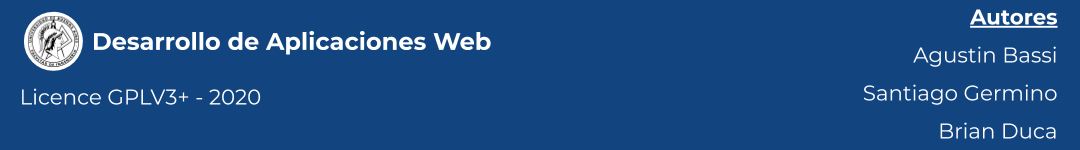
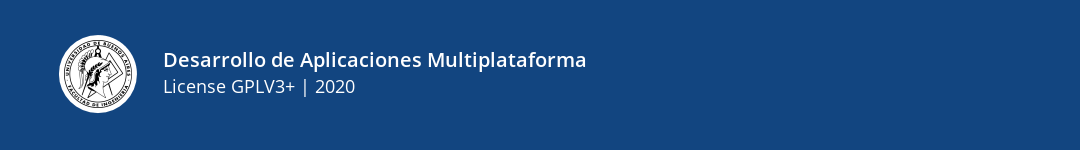
Se completa la primera versión del Readme.

diff --git a/README.md b/README.md
@@ -1,20 +1,161 @@
 ![header](doc/header.png)
 
-# DAW Project Template
+# Trabajo Práctico Final
 
-Authors:
+Autor:
 
-* Agustin Bassi
+* Agustín Curcio Berardi
+
+Docente:
+
 * Brian Ducca
-* Santiago Germino
 
-Template project for Web Applications Development.
+## Índice de contenidos
 
-To read all project documentation, please go to its wiki in [this link](https://github.com/ce-iot/daw-project-template/wiki).
+1. [Introducción general](#introducción)
+2. [Instalación de dependencias](#instalación-de-dependencias)
+3. [Implementación](#implementación)
+4. [Ejecución de la aplicación](#ejecución-de-la-aplicación)
+5. [Licencia](#licencia)
 
-## Licence
+## Introducción general
 
-This project is published under GPLV3+ licence.
+El **Trabajo Práctico Final** de la materia **Desarrollo de Aplicaciones Multiplataforma** consiste en el desarrollo de una aplicación para controlar un sistema de riego automatizado. La propuesta consistió en aplicar los conceptos vistos en la materia para implementar una aplicación utilizando **Angular** para diseñar una página web y mediante el framework **Ionic** transformarla en una aplicación híbrida para dispositivos móviles.
+
+## Instalación de dependencias
+
+Para poder ejecutar el "backend" de la aplicación se debe tener instalado Docker, ya que toda esa parte del proyecto se encuentra concentrada en un contenedor. En caso de no contar con Docker instalado, se recomienda seguir la sección "Instalación de dependencias" espeficiada en el [siguiente repositorio](https://github.com/acurber91/daw-project), ya que se reutilizó el mismo contenedor empleado en la materia Desarrollo de Aplicaciones Web.
+
+Por otro lado, para ejecutar la aplicación del "frontend" se requiere tener instalado el framework Ionic. Se diferencian dos situaciones.
+
+### Node.js instalado con anterioridad
+
+Si su computadora cuenta con Node.js instalado, seguramente cuente con el instalador **npm** que viene incluído por defecto, por lo que basta con ejecutar el siguiente comando para instalar el framework completo:
+
+    $ npm install -g @ionic/cli
+
+Para más información sobre cómo instalar Ionic con Node.JS, dirigirse a la [documentación oficial](https://ionicframework.com/docs/intro/cli).
+
+### Node.js no instalado con anterioridad
+
+En este caso será necesario instalar primero Node.js seguiendo la [página de descargas oficial](https://nodejs.org/en/). Una vez finalizada la instalación, se podrán seguir los pasos de la sección anterior para instalar Ionic.
+
+## Implementación
+
+### Introducción específica
+
+La aplicación se ejecuta cuando un móvil se comunica con el servidor web mediante el envío de solicitudes HTTP. Dicho servidor utiliza la tecnología Node.js para que, una vez establecida la conexión, se intercambien datos y que la aplicación pueda mostrar la información de los dispositivos almacenados en la base de datos.
+
+Para el diseño del **"frontend"** se utilizó framework **Ionic**, que es un SDK completo de código abierto para el desarrollo de aplicaciones móviles híbridas. En este caso, el desarrollo se realizó sobre **Angular**, otro "framework" utilizado para desarrollar aplicaciones web en TypeScript, de código abierto y mantenido por Google.
+
+En cuanto al diseño del sitio, Ionic ya incorpora los principios de diseño de **Material Design** en caso de que aplicaciones para **Android** y **Apple Design** en caso **iOS**.
+
+Por otro lado, en cuanto al desarrollo del **"backend"** se utilizó **Express.js**, que tal cual su nombre lo indica es un "framework" de Node.js gratuito y "open source". A su vez, se implementó una base de datos **MySQL** junto con el gestor **phpMyAdmin**.
+
+### Organización del proyecto
+
+El proyecto se encuentra conformado por la siguiente estructura de directorios y archivos:
+
+    ├── db                          # Directorio de la base de datos (BD).
+    │   ├── data                    # Estructura y datos de la BD.
+    │   └── dumps                   # Directorio de estructuras de la BD.
+    │       └── smart_home.sql      # Estructura con la BD "smart_home".
+    ├── doc                         # Documentación general del proyecto.
+    └── src                         # Directorio del código fuente.
+    │   ├── back                    # Directorio para el backend de la aplicación
+    │   │   ├── index.js            # Código principal del backend.
+    │   │   ├── mysql-connector.js  # Código de conexion a la BD.
+    │   │   ├── package.json        # Configuración de proyecto NodeJS.
+    │   │   └── package-lock.json   # Configuración de proyecto NodeJS.
+    │   └── front                   # Directorio para el frontend de la aplicacion
+    │       ├── index.html          # Archivo principal del cliente HTML.
+    │       ├── js                  # Código JavaScript compilado.
+    │       ├── static              # Archivos estáticos (imágenes, CSS, fuentes).
+    │       └── ts                  # Código TypeScript a compilar.
+    ├── docker-compose.yml          # Archivo de configuracion del contenedor.
+    ├── README.md                   # Archivo actual.
+    ├── CHANGELOG.md                # Archivo para guardar cambios.
+    ├── LICENSE.md                  # Archivo de licencia.
+
+### Desarrollo del "frontend"
+
+De acuerdo a las consignas del Trabajo Práctico Final, se implementaron las siguientes funcionalidades en el "frontend".
+
+#### Dar un listado de dispositivos
+
+La consigna proponía mostrar el listado completo de dispositivos dentro de la aplicaciñon. Este listado se muestra ni bien se inicia la aplicación.
+
+![Imagen del listado.](doc/home-page.png)
+
+#### Mostrar la información de cada dispositivo
+
+Al hacer "tap" en algún dispositivo, se despliega una vista que muestra el último valor de la medición a través de un gráfico tipo "gauge" y una serie de opciones.
+
+![Imagen del dispositivo.](doc/device-page.png)
+
+#### Opción para abrir o cerrar la electroválvula
+
+Cada sensor tiene asociada una electroválvula. Al hacer click en dicho botón, dependiendo del último estado de la válvula se abrirá o cerrará. Se distinguen dos situaciones:
+
+* En caso de que la válvula esté **abierta**, se cerrará generando un "log" en las tablas **Log_Riegos** y  **Mediciones**.
+* Por otro lado, en caso de que la válvula esté **cerrada**, solamente se generará un "log" en la tabla **Log_Riegos**.
+
+#### Opción para ver registro de mediciones
+
+Al hacer "tap" en el botón **Ver registro de mediciones**, se mostrará una tabla al usuario con todo el historial de mediciones asociadas a dicho sensor en particular.
+
+![Tabla de mediciones](doc/medicion-page.png)
+
+#### Opción para ver registro de riegos
+
+Al hacer "tap" en el botón **Ver registro de riegos**, se mostrará una tabla al usuario con todo el historial de riegos asociadas a dicho sensor en particular.
+
+![Tabla de riegos](doc/riego-page.png)
+
+### Desarrollo del "backend"
+
+La consigna requería entregar una API desarrollada en **Express**. Así, se incluyó dentro de un contenedor Docker la API en cuestión, la cual está conformada por:
+
+* Una imagen de Node.js junto con Express.
+* Una base de datos MySQL.
+* Un gestor de base de datos phpMyAdmin.
+
+Dependiendo del tipo de tabla que se consulte, la API soporta métodos GET y POST.
+
+## Ejecución de la aplicación
+
+### Inicialización del "backend"
+
+Una vez que se han instaladas todas las dependencias se podrá ejecutar la aplicación. Para ello, se deberá descargar éste repositorio.
+
+    git clone https://github.com/acurber91/dam.git
+
+Para inicializar el contenedor, primero se debe acceder al directorio donde se descargó el repositorio.
+
+    cd dam/app/back
+
+Y ejecutar el siguiente comando.
+
+    docker-compose up
+
+Una vez iniciado, ya se contará una la API en funcionamiento. Para cerrar el contenedor, se puede correr el comando ``docker-compose down`` desde otra terminal o bien utilizar el shortcut ``Ctrl+C``, obteniendo el mismo resultado.
+
+> **NOTA**: La primera vez que se ejecuta el comando ``docker-compose up`` es probable que la base de datos MySQL arroje un error y en la aplicación no aparecerá ningún dispositivo, es decir, solo se mostrará el "cascarón". Si eso sucediera, será necesario reiniciar el contenedor. Para ello, cerrarlo con ``docker-compose down`` y volver a iniciarlo con ``docker-compose up``.
+
+### Inicialización del "frontend"
+
+Para mostrar la aplicación a través de una pestaña de un explorador web, se necesita acceder al siguiente directorio
+
+    cd dam/app/front
+
+Y ejecutar el siguiente comando.
+
+    ionic serve
+
+Con éste último comando, la aplicación comenzará a compilar y en caso de que no existan errores, abrirá una nueva pestaña en la dirección ``http://localhost:8100/home``. Una vez abierta, es posible navegar a través de la misma utilizando la vista web o bien simulando un dispositivo móvil, haciendo ``Ctrl + Shift + I`` para acceder a las herramientas de desarrollador desde un navegador basado en Chromium.
+
+## Licencia
+
+Este proyecto se encuentra publicado bajo la licencia GPLv3. En [este enlace](https://www.gnu.org/licenses/quick-guide-gplv3.html) podrá encontrar más información sobre la misma.
 
 ![footer](doc/footer.png)
-
